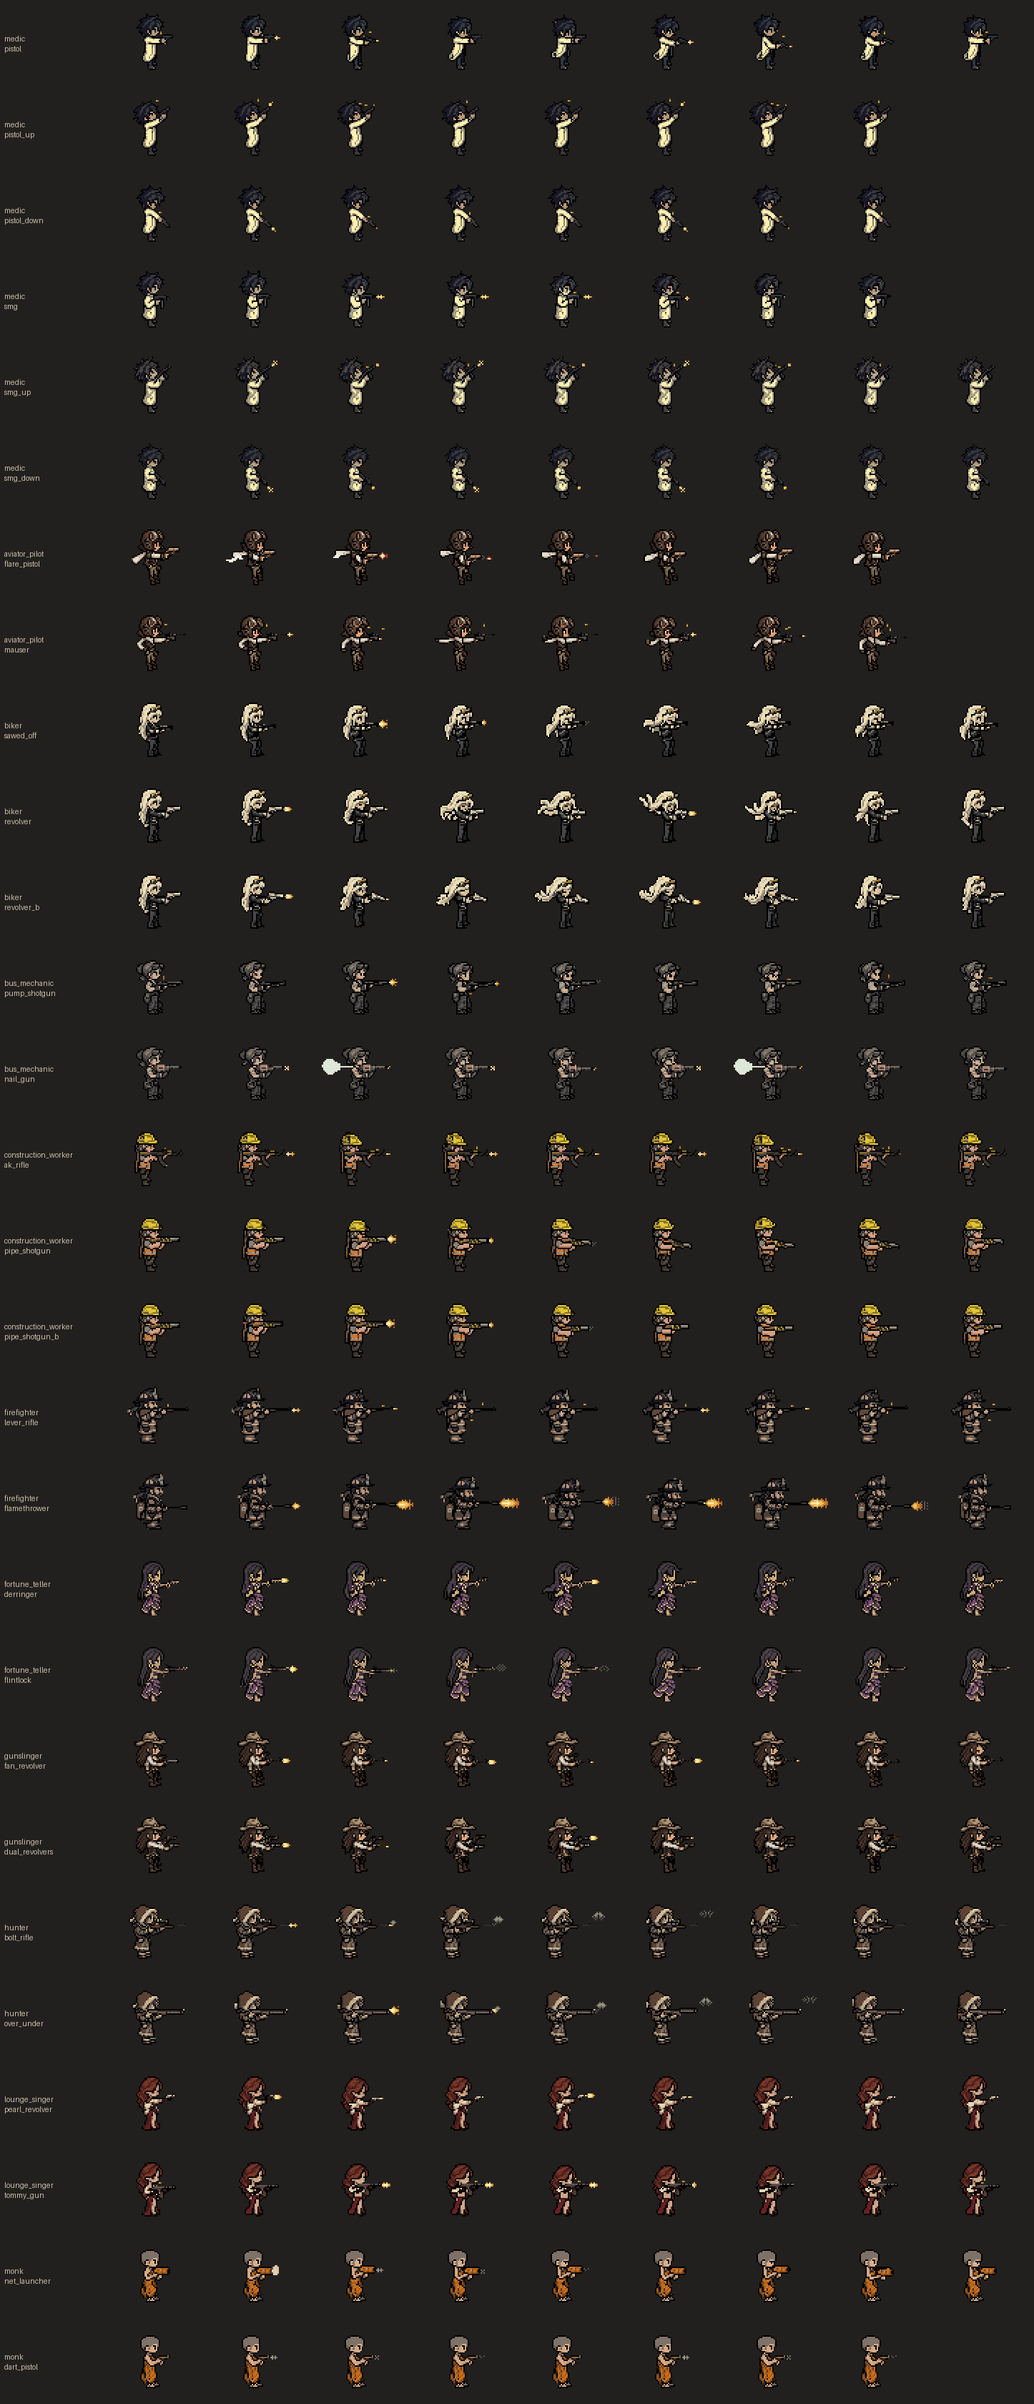
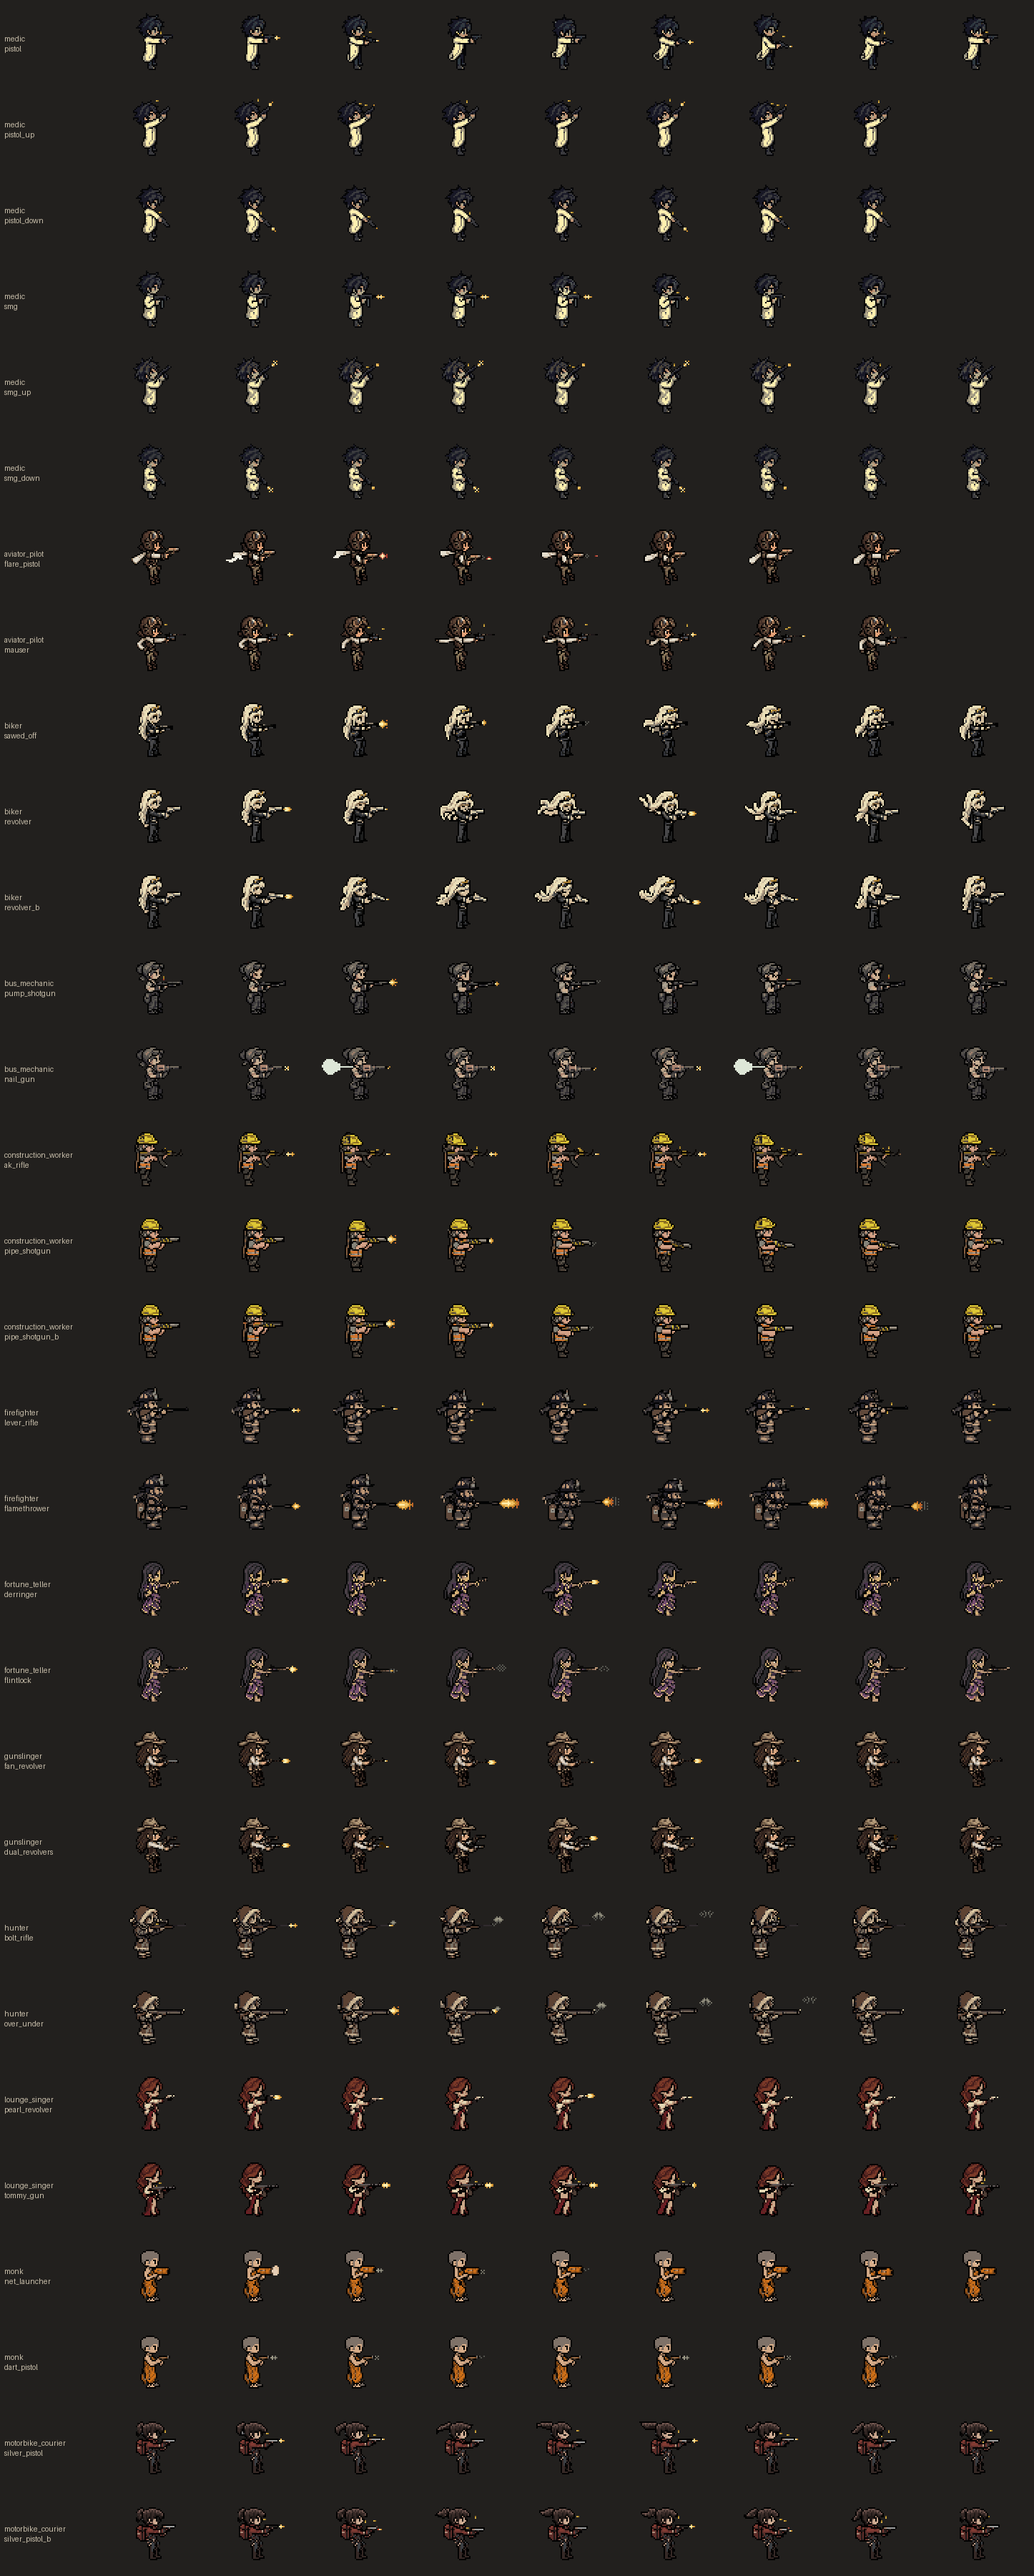
MV-594: motorbike courier gun animations (silver pistol, 2 takes) + hair/recoil tools
Claude-Session: https://claude.ai/code/session_01JAwuZXuYevryVVgRcX7H5x

diff --git a/tools/art/crew_gun/hairfx.py b/tools/art/crew_gun/hairfx.py
@@ -1,0 +1,24 @@
+"""Add strand lines, highlights and shading to flat hair in every frame of a clip (code, no gens).
+usage: hairfx.py dir r,g,b [max_row]   (r,g,b = the flat hair colour)"""
+import sys, os
+from PIL import Image
+d = sys.argv[1]; base = tuple(int(v) for v in sys.argv[2].split(',')); maxy = int(sys.argv[3]) if len(sys.argv) > 3 else 27
+mix = lambda c, k: tuple(max(0, min(255, round(v * k))) for v in c)
+HI, SPEC, SH, MID = mix(base, 1.75), mix(base, 2.3), mix(base, 0.6), mix(base, 1.3)
+for f in sorted(os.listdir(d)):
+    if not f[0].isdigit(): continue
+    im = Image.open(f'{d}/{f}').convert('RGBA'); px = im.load(); src = im.copy().load()
+    hair = lambda x, y: 0 <= x < im.width and 0 <= y < im.height and src[x, y][3] and src[x, y][:3] == base
+    for x in range(im.width):
+        top = None
+        for y in range(maxy):
+            if not hair(x, y): top = None; continue
+            if top is None: top = y
+            dd = y - top
+            below = hair(x, y + 1)
+            if dd == 0: px[x, y] = (*(SPEC if x % 3 == 1 else HI), 255)
+            elif dd == 1 and x % 2 == 0: px[x, y] = (*HI, 255)
+            elif not below: px[x, y] = (*SH, 255)          # underside shade
+            elif dd >= 3 and x % 3 == 0: px[x, y] = (*SH, 255)   # strand lines
+            elif dd == 2 and x % 3 == 2: px[x, y] = (*MID, 255)
+    im.save(f'{d}/{f}')

diff --git a/tools/art/crew_gun/export.py b/tools/art/crew_gun/export.py
@@ -34,6 +34,8 @@ CLIPS = [
  ('lounge_singer', 'tommy_gun', 'lounge_singer/fx_B', 'smg', [2, 3, 4], 12, 'level', '1920s tommy gun from the hip, burst (flash spans the 2 px barrel)'),
  ('monk', 'net_launcher', 'monk/fx_A', 'airpuff', [2], 10, 'level', 'compressed-air net launcher, two hands (non-lethal: monks keep the precept against killing)'),
  ('monk', 'dart_pistol', 'monk/fx_B', 'airpuff', [1, 5], 10, 'level', 'wooden tranquiliser dart pistol, two-hand grip (PixelLab hold pose + code recoil)'),
+ ('motorbike_courier', 'silver_pistol', 'motorbike_courier/fx_B2H', 'pistol', [1, 5], 10, 'level', 'silver pistol, two hands, ponytail whips with the recoil (legs pinned, hair detail drawn in code)'),
+ ('motorbike_courier', 'silver_pistol_b', 'motorbike_courier/fx_B3H', 'pistol', [1, 5], 10, 'level', 'silver pistol, two hands, softer ponytail sway (take 2)'),
 ]
 man = json.load(open(REPO + 'manifest.json'))
 entry = {'how': 'MV-594. 1) edit_image_pro_flash on the character work/0 frame (60x60) -> holding-the-gun pose (5 gens). '

diff --git a/tools/art/crew_gun/declutter.py b/tools/art/crew_gun/declutter.py
@@ -1,0 +1,14 @@
+"""Drop pixels left of column X whose colour is not near any colour of the hold pose (PixelLab speed-line
+artefacts that touch the body). usage: declutter.py dir hold.png x [tol]"""
+import sys, os
+from PIL import Image
+d, hold, X = sys.argv[1], sys.argv[2], int(sys.argv[3]); tol = int(sys.argv[4]) if len(sys.argv) > 4 else 40
+pal = {p[:3] for p in Image.open(hold).convert('RGBA').get_flattened_data() if p[3]}
+near = lambda c: any(abs(c[0]-p[0]) + abs(c[1]-p[1]) + abs(c[2]-p[2]) <= tol for p in pal)
+for f in os.listdir(d):
+    if not f[0].isdigit(): continue
+    im = Image.open(f'{d}/{f}').convert('RGBA'); px = im.load(); n = 0
+    for y in range(im.height):
+        for x in range(min(X, im.width)):
+            if px[x, y][3] and not near(px[x, y]): px[x, y] = (0, 0, 0, 0); n += 1
+    im.save(f'{d}/{f}'); print(f, n)

diff --git a/tools/art/crew_gun/recoil.py b/tools/art/crew_gun/recoil.py
@@ -13,10 +13,13 @@ def shift(im, box, dx):
     out.alpha_composite(part, (box[0] + dx, box[1]))
     return out
 
+BODY = os.environ.get('BODY') == '1'   # whole figure above the ankles leans back (no tear at the waist; for backpacks, long hair)
+ANKLE = 44
+
 def kick(level):
     im = hold
-    if level >= 1: im = shift(im, (1, 0, hold.width, WAIST), -1)
-    if level >= 2: im = shift(im, (FRONT - 1, 0, hold.width, 46), -1)
+    if level >= 1: im = shift(im, (1, 0, hold.width, ANKLE if BODY else WAIST), -1)
+    if level >= 2: im = shift(im, (0, 0, hold.width, ANKLE) if BODY else (FRONT - 1, 0, hold.width, 46), -1)
     return im
 
 os.makedirs(dst, exist_ok=True)

diff --git a/tools/art/crew_gun/README.md b/tools/art/crew_gun/README.md
@@ -9,7 +9,11 @@ proxy/network secret, never from a key in this repo. Every PixelLab call spends 
 - `fx.py <clip> <preset> <shots> <out> [aim] [drop]`: removes PixelLab's own flashes, draws muzzle flash + casings
   from the `GUNS` presets in master-palette colours, writes `muzzle.json`. `HOLD=<hold.png>` also strips stray
   PixelLab casings; `SNAP=1` snaps to the master palette (medic only). Shot `4b` = the second gun of a two-gun pose.
-- `recoil.py`: code recoil for the up/down aims (PixelLab v3 drifts back to a level aim).
+- `recoil.py`: code recoil for the up/down aims (PixelLab v3 drifts back to a level aim). `BODY=1` moves the whole
+  figure above the ankles instead of cutting at the waist (backpacks, long hair tear otherwise).
 - `lockfeet.py`: pins the legs to frame 0 when PixelLab makes the character step.
 - `erase.py`: clears a box of PixelLab artefacts in every frame.
+- `declutter.py`: drops off-palette pixels (PixelLab speed lines) left of a column.
+- `hairfx.py`: draws strand lines, a highlight and underside shade on flat hair in every frame.
+- `fx.py` presets also include `airpuff` (net/dart guns), `*_smoke` variants, and `BORE2=1` for a flash on a 2 px barrel.
 - `rebuild.sh` re-renders every kept clip, `export.py` copies them into the reference and writes the manifest.

diff --git a/docs/art/crew-style-reference.md b/docs/art/crew-style-reference.md
@@ -180,6 +180,7 @@ gun, fps, shot frames and a muzzle point per frame in the manifest `gun_animatio
 | hunter | `bolt_rifle`, `over_under` |
 | lounge_singer | `pearl_revolver`, `tommy_gun` |
 | monk | `net_launcher`, `dart_pistol` (non-lethal) |
+| motorbike_courier | `silver_pistol`, `silver_pistol_b` (ponytail swing, legs pinned) |
 
 ## Cast portraits
 
